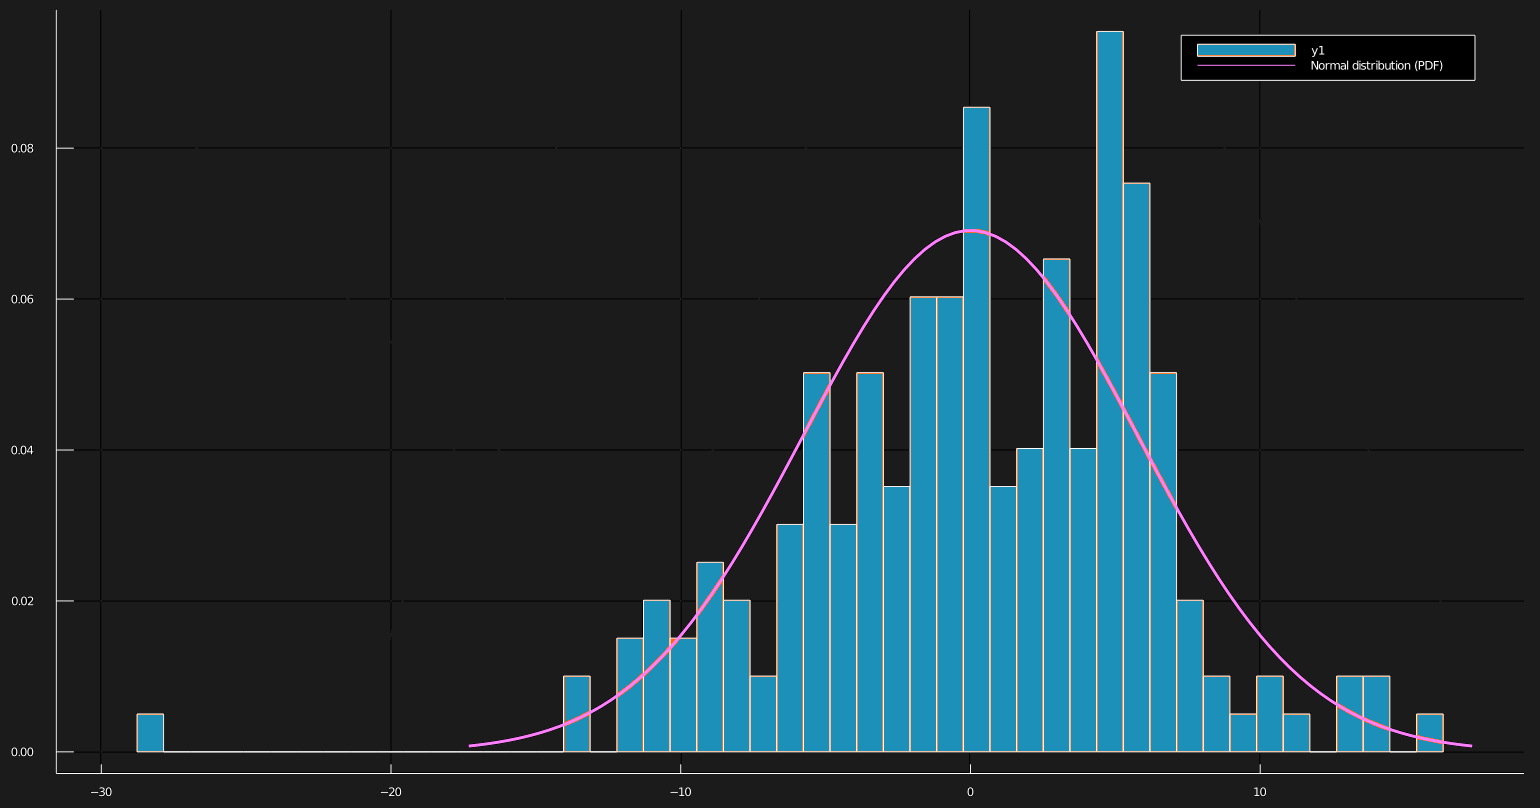
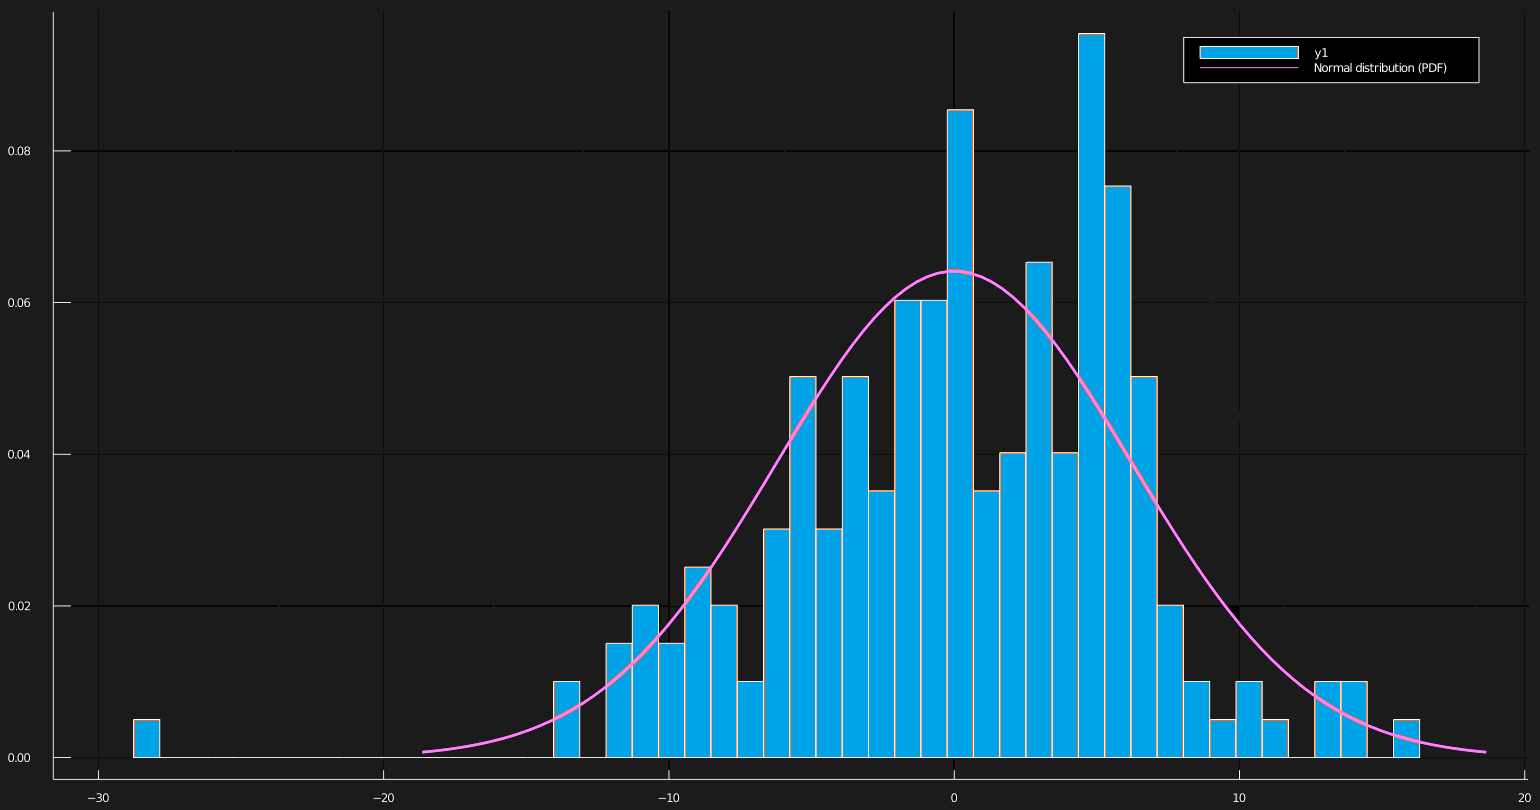
CLT

diff --git a/stats/clt/julia/index.html b/stats/clt/julia/index.html
@@ -189,22 +189,13 @@ The Normal distribution that we plotted have same <b>mean</b> and <b>variance</b
 	If you follow the result of the CLT,
 	\[\sqrt{n}\, (\overline{X}_n-\mu) \xrightarrow [n\to \infty ]{(d)} \mathcal{N}(0,\sigma^2) \]
 	Then you can see our <b>normally distributed</b> data. <br>
-	We just have to take the <b>true mean</b> instead of taking average of all sample means, <b>true variance</b> instead of taking variance of all of our sample means, center our observations around \(0\) and then stretch it by a factor of \(\sqrt{n}\). <br>
-	(this is also what you will see in most of the simulations online). <br>
-	<br>
-	<h4>So why we are using mean and variance of our sampling distribution instead of <b>true</b> mean and variance?</h4>
-	<details>
-		<summary><i><span class="bb">Answer</span></i></summary>
-		<blockquote class="sidebar">
-			We are using the estimated mean and variance of our sampling distribution instead of <b>true</b> mean and variance because, in reality we just have <b>data</b> we don't know the underlying random process, so we don't know the <b>true mean</b> and <b>true variance</b>. <br>
-			In this simulation we can easily get true mean by <span class="bb">distribution.mean()</span> and true variance by <span class="bb">distribution.var()</span> but this can't be done in real dataset.
-		</blockquote>
-	</details>
-	<pre data-start="17"><code class="language-python line-numbers">mean_ = mean(distribution) # True mean
-std_ = std(distribution) # True standard deviation
+	We just have to  center our observations around \(0\) and then stretch it by a factor of \(\sqrt{n}\). <br>
+
+	<pre data-start="17"><code class="language-python line-numbers">mean_ = mean(sqrt(n) .* (sample_means .- mean(distribution)))
+std_ = sqrt(n) * std(sample_means)
 
 # Centered and stretched sample mean (r.v.)
-sample_means = sqrt(n) .* (sample_means .- mean_)
+sample_means = sqrt(n) .* (sample_means .- mean(distribution))
 
 # Getting Histogram
 num_bins = 50

diff --git a/stats/clt/python/index.html b/stats/clt/python/index.html
@@ -206,23 +206,14 @@ The Normal distribution that we plotted have same <b>mean</b> and <b>variance</b
 	If you follow the result of the CLT,
 	\[\sqrt{n}\, (\overline{X}_n-\mu) \xrightarrow [n\to \infty ]{(d)} \mathcal{N}(0,\sigma^2) \]
 	Then you can see our <b>normally distributed</b> data. <br>
-	We just have to take the <b>true mean</b> instead of taking average of all sample means, <b>true variance</b> instead of taking variance of all of our sample means, center our observations around \(0\) and then stretch it by a factor of \(\sqrt{n}\). <br>
-	(this is also what you will see in most of the simulations online). <br>
-	<br>
-	<h4>So why we are using mean and variance of our sampling distribution instead of <b>true</b> mean and variance?</h4>
-	<details>
-		<summary><i><span class="bb">Answer</span></i></summary>
-		<blockquote class="sidebar">
-			We are using the estimated mean and variance of our sampling distribution instead of <b>true</b> mean and variance because, in reality we just have <b>data</b> we don't know the underlying random process, so we don't know the <b>true mean</b> and <b>true variance</b>. <br>
-			In this simulation we can easily get true mean by <span class="bb">distribution.mean()</span> and true variance by <span class="bb">distribution.var()</span> but this can't be done in real dataset.
-		</blockquote>
-	</details>
+	We just have to center our observations around \(0\) and then stretch it by a factor of \(\sqrt{n}\). <br>
+
 	<pre data-start="17"><code class="language-python line-numbers">from scipy.stats import norm
-mean = distribution.mean() # True mean
-std = distribution.std() # True standard deviation
+mean = np.mean(np.sqrt(n) * (sample_means - distribution.mean()))
+std = np.sqrt(n) * np.std(sample_means)
 
 # Centered and stretched sample mean (r.v.)
-sample_means = np.sqrt(n) * np.array(sample_means - mean)
+sample_means = np.sqrt(n) * (sample_means - distribution.mean())
 
 fig, ax = plt.subplots()
 
